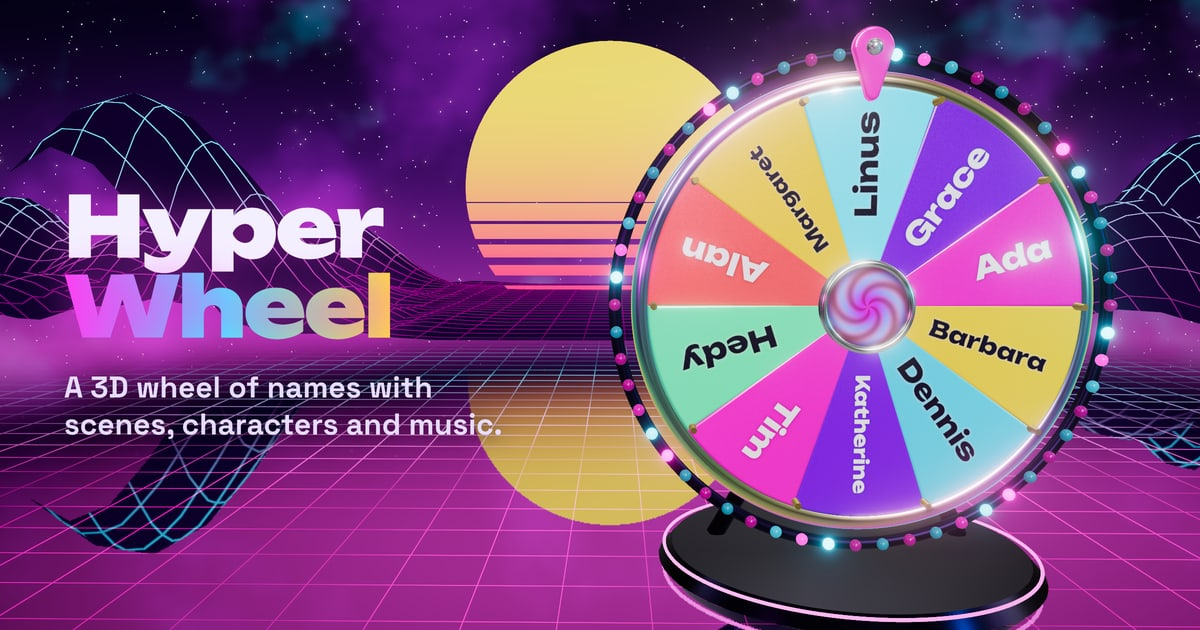
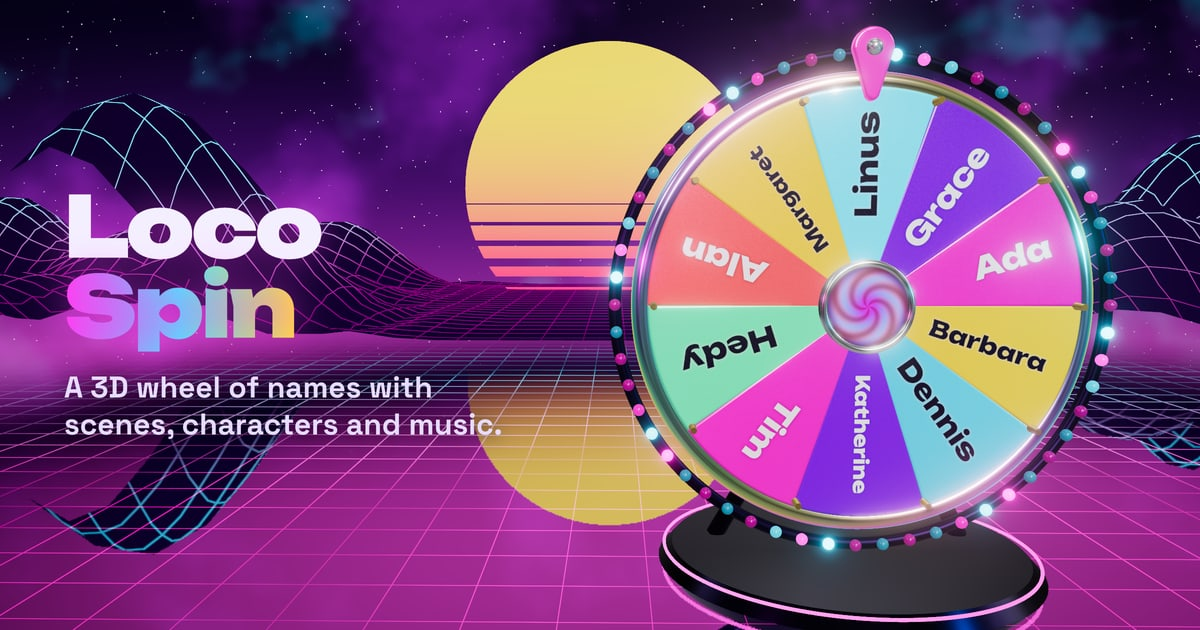
Rename

diff --git a/scripts/presetWheels.ts b/scripts/presetWheels.ts
@@ -1,10 +1,10 @@
 /**
- * Preset wheels: .hyperwheel files bundled into the site at build time.
+ * Preset wheels: .locospin files bundled into the site at build time.
  *
  * They're read from `PRESET_WHEELS_URL` (any static host: an S3 bucket, a CDN,
  * a GitHub raw folder…) which must serve an `index.json` listing the files —
- * either `["team.hyperwheel", …]` or `{ "wheels": [ … ] }` — next to the files
- * themselves. Without the variable, `presets/*.hyperwheel` in the repo is used.
+ * either `["team.locospin", …]` or `{ "wheels": [ … ] }` — next to the files
+ * themselves. Without the variable, `presets/*.locospin` in the repo is used.
  *
  * The site gets `presets/index.json` (file, title, number of names, scene) and
  * the files under `presets/`, so nothing is fetched from the bucket at runtime:
@@ -15,8 +15,8 @@ import { existsSync } from 'node:fs';
 import { readdir, readFile } from 'node:fs/promises';
 import { strFromU8, unzipSync } from 'fflate';
 
-// letters, digits, - and _ only: the name (without .hyperwheel) is also the preset's URL path
-const FILE = /^[\w-]+\.hyperwheel$/;
+// letters, digits, - and _ only: the name (without .locospin) is also the preset's URL path
+const FILE = /^[\w-]+\.locospin$/;
 const MAX_BYTES = 64 * 1024 * 1024;
 const LOCAL_DIR = 'presets';
 
@@ -36,7 +36,7 @@ async function fetchRemote(url: string) {
   const files = new Map<string, Uint8Array>();
   for (const name of list) {
     if (typeof name !== 'string' || !FILE.test(name)) {
-      console.warn(`[presets] skipping ${JSON.stringify(name)}: expected a file name like team-standup.hyperwheel (letters, digits, - and _)`);
+      console.warn(`[presets] skipping ${JSON.stringify(name)}: expected a file name like team-standup.locospin (letters, digits, - and _)`);
       continue;
     }
     const r = await fetch(new URL(name, base));
@@ -63,10 +63,11 @@ function describe(file: string, bytes: Uint8Array): PresetInfo | null {
     const raw = unzipSync(bytes, { filter: (f) => f.name === 'wheel.json' })['wheel.json'];
     const manifest = JSON.parse(strFromU8(raw));
     const w = manifest?.wheel ?? {};
-    if (manifest?.format !== 'hyperwheel') throw new Error('not a HyperWheel file');
+    // 'hyperwheel' is the format tag from before the rename
+    if (manifest?.format !== 'locospin' && manifest?.format !== 'hyperwheel') throw new Error('not a LocoSpin file');
     return {
       file,
-      title: String(w.title ?? file.replace(/\.hyperwheel$/, '')).slice(0, 60),
+      title: String(w.title ?? file.replace(/\.locospin$/, '')).slice(0, 60),
       names: Array.isArray(w.entries) ? w.entries.length : 0,
       theme: typeof w.settings?.theme === 'string' ? w.settings.theme : undefined,
     };
@@ -95,7 +96,7 @@ export function presetWheels(url: string | undefined): Plugin {
   };
 
   return {
-    name: 'hyperwheel-presets',
+    name: 'locospin-presets',
     async buildStart() {
       ready = collect();
       await ready;

diff --git a/index.html b/index.html
@@ -4,22 +4,22 @@
     <meta charset="UTF-8" />
     <meta name="viewport" content="width=device-width, initial-scale=1.0, viewport-fit=cover" />
     <meta name="theme-color" content="#07020f" />
-    <title>HyperWheel — a 3D wheel of names</title>
+    <title>LocoSpin — a 3D wheel of names</title>
     <meta name="description" content="Spin a 3D wheel of names to pick a random winner. Switch between animated scenes, give every name a character and celebrate with music and confetti." />
     <link rel="canonical" href="https://wheelofnames.locomotive.ca/" />
 
     <!-- link previews (Slack, iMessage, Discord, LinkedIn, X…) -->
     <meta property="og:type" content="website" />
-    <meta property="og:site_name" content="HyperWheel" />
-    <meta property="og:title" content="HyperWheel — a 3D wheel of names" />
+    <meta property="og:site_name" content="LocoSpin" />
+    <meta property="og:title" content="LocoSpin — a 3D wheel of names" />
     <meta property="og:description" content="Spin a 3D wheel of names to pick a random winner, with animated scenes, characters, music and confetti." />
     <meta property="og:url" content="https://wheelofnames.locomotive.ca/" />
     <meta property="og:image" content="https://wheelofnames.locomotive.ca/og-image.jpg" />
     <meta property="og:image:width" content="1200" />
     <meta property="og:image:height" content="630" />
-    <meta property="og:image:alt" content="A glowing 3D name wheel on a neon synthwave stage, next to the HyperWheel title." />
+    <meta property="og:image:alt" content="A glowing 3D name wheel on a neon synthwave stage, next to the LocoSpin title." />
     <meta name="twitter:card" content="summary_large_image" />
-    <meta name="twitter:title" content="HyperWheel — a 3D wheel of names" />
+    <meta name="twitter:title" content="LocoSpin — a 3D wheel of names" />
     <meta name="twitter:description" content="Spin a 3D wheel of names to pick a random winner, with animated scenes, characters, music and confetti." />
     <meta name="twitter:image" content="https://wheelofnames.locomotive.ca/og-image.jpg" />
     <link rel="apple-touch-icon" href="/apple-touch-icon.png" />
@@ -37,7 +37,7 @@
     <div id="boot" class="boot" aria-hidden="true"><div class="boot-ring"></div><p>Warming up the wheel…</p></div>
 
     <header class="brand">
-      <h1>Hyper<span>Wheel</span></h1>
+      <h1>Loco<span>Spin</span></h1>
       <div class="badges">
         <span id="backend" class="badge">booting…</span>
         <span id="fps" class="badge subtle"></span>
@@ -168,7 +168,7 @@
     </dialog>
 
     <input id="file-models" type="file" accept=".glb,.fbx,model/gltf-binary" multiple hidden />
-    <input id="file-wheel" type="file" accept=".hyperwheel,.zip" hidden />
+    <input id="file-wheel" type="file" accept=".locospin,.hyperwheel,.zip" hidden />
     <div id="toast" class="toast" role="status" aria-live="polite"></div>
 
     <script type="module" src="/src/main.ts"></script>

diff --git a/src/library/wheels.ts b/src/library/wheels.ts
@@ -107,10 +107,10 @@ export function reconcile(entries: Entry[], names: string[]): Entry[] {
   return names.map((name) => pool.get(name)?.shift() ?? { id: uid(), name });
 }
 
-// ------------------------------------------------------------------ export / import (.hyperwheel = zip)
+// ------------------------------------------------------------------ export / import (.locospin = zip)
 
 interface Manifest {
-  format: 'hyperwheel';
+  format: 'locospin';
   version: 1;
   wheel: WheelDoc;
   assets: { id: string; name: string; type: string; path: string }[];
@@ -120,7 +120,7 @@ interface Manifest {
 export async function exportWheel(w: WheelDoc): Promise<Blob> {
   const { strToU8, zipSync } = await zip();
   const files: Record<string, Uint8Array> = {};
-  const manifest: Manifest = { format: 'hyperwheel', version: 1, wheel: { ...w, thumb: undefined, preset: undefined }, assets: [] };
+  const manifest: Manifest = { format: 'locospin', version: 1, wheel: { ...w, thumb: undefined, preset: undefined }, assets: [] };
   for (const id of wheelModels(w)) {
     const a = await getAsset(id);
     if (!a) continue;
@@ -143,7 +143,7 @@ export interface ImportReport {
 const mb = (bytes: number) => `${Math.round(bytes / 1024 / 1024)} MB`;
 
 /**
- * Import a .hyperwheel file as a new wheel (its files are added to the library).
+ * Import a .locospin file (or an older .hyperwheel one) as a new wheel (its files are added to the library).
  *
  * The file is untrusted (someone sent it), so: sizes are capped before and
  * during unzipping (declared sizes are checked before anything is inflated,
@@ -174,18 +174,19 @@ export async function importWheel(file: Blob): Promise<ImportReport> {
       },
     });
   } catch {
-    throw new Error('This file is damaged or is not a HyperWheel file.');
+    throw new Error('This file is damaged or is not a LocoSpin file.');
   }
 
   const raw = files['wheel.json'];
-  if (!raw) throw new Error('Not a HyperWheel file (wheel.json is missing or too large).');
+  if (!raw) throw new Error('Not a LocoSpin file (wheel.json is missing or too large).');
   let manifest: unknown;
   try {
     manifest = JSON.parse(strFromU8(raw));
   } catch {
-    throw new Error('This HyperWheel file is damaged (its wheel.json is not valid).');
+    throw new Error('This LocoSpin file is damaged (its wheel.json is not valid).');
   }
-  if (!isObject(manifest) || manifest.format !== 'hyperwheel') throw new Error('Not a HyperWheel file.');
+  // 'hyperwheel' files were exported before the rename
+  if (!isObject(manifest) || (manifest.format !== 'locospin' && manifest.format !== 'hyperwheel')) throw new Error('Not a LocoSpin file.');
 
   // Store bundled files one by one; anything odd is skipped, not fatal.
   // Ids are content hashes, so a file's claimed id is only used to find references to it.

diff --git a/src/themes/grandprix/index.ts b/src/themes/grandprix/index.ts
@@ -300,7 +300,7 @@ function makeBoards() {
   ctx.font = 'italic 900 118px "Racing Sans One", "Arial Black", sans-serif';
   ctx.textAlign = 'center';
   ctx.textBaseline = 'middle';
-  ctx.fillText('HYPERWHEEL GP', 512, 100);
+  ctx.fillText('LOCOSPIN GP', 512, 100);
   const tex = new THREE.CanvasTexture(c);
   tex.colorSpace = THREE.SRGBColorSpace;
   // LED boards: they glow on their own at night
@@ -412,7 +412,7 @@ export const grandprix: Theme<RaceScene> = {
     hub: ['#e10600', '#1a1a1d'],
     pegs: '#f2f2f2',
     frame: '#121214',
-    tire: { text: 'HYPERWHEEL  •  GRAND PRIX', color: '#ffd400' },
+    tire: { text: 'LOCOSPIN  •  GRAND PRIX', color: '#ffd400' },
   },
   // night race: the floodlights, tail-lights and LED boards carry the bloom
   post: { bloom: [0.55, 0.4, 0.78], exposure: 1, aberration: 0.7, vignette: 0.55 },

diff --git a/src/main.ts b/src/main.ts
@@ -55,10 +55,10 @@ const app = new App(canvas, {
 ui = new UI(app);
 
 async function boot() {
-  performance.mark('hw:boot');
+  performance.mark('ls:boot');
   try {
     await app.init();
-    performance.mark('hw:renderer');
+    performance.mark('ls:renderer');
   } catch (err) {
     console.error(err);
     const el = document.getElementById('backend')!;
@@ -68,7 +68,7 @@ async function boot() {
   }
   ui.setBackend(app.stage.isWebGPU);
   const { fromLink, linkError } = await ui.init();
-  performance.mark('hw:scene');
+  performance.mark('ls:scene');
   app.start();
   // after the first frame: fetch the other scenes and the character loaders while idle
   const later = (fn: () => void) => ('requestIdleCallback' in window ? requestIdleCallback(fn, { timeout: 3000 }) : setTimeout(fn, 1500));

diff --git a/src/app/route.ts b/src/app/route.ts
@@ -1,6 +1,6 @@
 /**
  * Start-up links: `/<preset>` opens a bundled preset wheel (its file name
- * without `.hyperwheel`), and `#<scene>` starts in that scene — together:
+ * without `.locospin`), and `#<scene>` starts in that scene — together:
  * `/team-standup#pizza`. Share links (`#w=…`) are handled by the session.
  */
 import { THEMES } from '../themes';
@@ -26,4 +26,4 @@ export function showRoute(preset: string | undefined) {
   if (location.pathname + location.hash !== path) history.replaceState(null, '', path + location.search);
 }
 
-export const presetSlug = (file: string) => file.replace(/\.hyperwheel$/, '');
+export const presetSlug = (file: string) => file.replace(/\.locospin$/, '');

diff --git a/src/app/App.ts b/src/app/App.ts
@@ -370,7 +370,7 @@ export class App {
       entrance: theme.character?.entrance ?? 'beam',
       accent: theme.ui.accent,
     });
-    performance.mark('hw:theme-built');
+    performance.mark('ls:theme-built');
     dlog('🎬 scene', `${theme.emoji} ${theme.name}`);
 
     if (!first) this.stage.triggerRipple(WHEEL_CENTER, 1.2, 1.2);
@@ -487,7 +487,7 @@ export class App {
     else this.fadeCover();
     if (!this.firstFrame) {
       this.firstFrame = true;
-      performance.mark('hw:first-frame');
+      performance.mark('ls:first-frame');
       this.events.onFirstFrame?.();
     }
     if (this.thumbRequests.length) this.grabThumbnail();

diff --git a/src/app/wheelMenu.ts b/src/app/wheelMenu.ts
@@ -73,7 +73,7 @@ export class WheelMenu {
           await session.save();
           toast('Packing wheel…');
           const blob = await exportWheel(session.doc);
-          download(blob, `${session.doc.title.replace(/[^\w-]+/g, '-').toLowerCase() || 'wheel'}.hyperwheel`);
+          download(blob, `${session.doc.title.replace(/[^\w-]+/g, '-').toLowerCase() || 'wheel'}.locospin`);
           toast(`Exported (${(blob.size / 1e6).toFixed(1)} MB)`);
           break;
         }

diff --git a/src/library/presets.ts b/src/library/presets.ts
@@ -13,8 +13,8 @@ export interface Preset {
   names: number;
 }
 
-// letters, digits, - and _ only: the name (without .hyperwheel) is also the preset's URL path
-const FILE = /^[\w-]+\.hyperwheel$/;
+// letters, digits, - and _ only: the name (without .locospin) is also the preset's URL path
+const FILE = /^[\w-]+\.locospin$/;
 const url = (path: string) => `${import.meta.env.BASE_URL}presets/${path}`;
 
 let cache: Promise<Preset[]> | null = null;

diff --git a/src/library/validate.ts b/src/library/validate.ts
@@ -2,7 +2,7 @@ import { LIMITS } from './limits';
 import type { WheelSettings } from './wheels';
 
 /**
- * Turning untrusted data (an imported .hyperwheel file, later share links)
+ * Turning untrusted data (an imported .locospin file, later share links)
  * into wheel fields we can safely store and render. Everything is type-checked,
  * trimmed and clamped; anything unexpected is dropped rather than trusted.
  */

diff --git a/src/app/store.ts b/src/app/store.ts
@@ -1,7 +1,7 @@
 import type { QualityPref } from '../engine/quality';
 import { LIMITS } from '../library/limits';
 
-const STORE_KEY = 'hyperwheel:v1';
+const STORE_KEY = 'locospin:v1';
 
 export const MAX_ENTRIES = LIMITS.entries;
 export const DEFAULT_NAMES = ['Ada', 'Grace', 'Linus', 'Margaret', 'Alan', 'Hedy', 'Tim', 'Katherine', 'Dennis', 'Barbara'];

diff --git a/src/engine/quality.ts b/src/engine/quality.ts
@@ -35,7 +35,7 @@ export function initialAutoLevel(): QualityLevel {
   return matchMedia('(pointer: coarse)').matches ? 'medium' : 'high';
 }
 
-const STORAGE_KEY = 'hyperwheel:quality';
+const STORAGE_KEY = 'locospin:quality';
 /** After settling lower, wait this long before trying a higher level again. */
 const RETRY_AFTER = 7 * 24 * 3600 * 1000;
 
